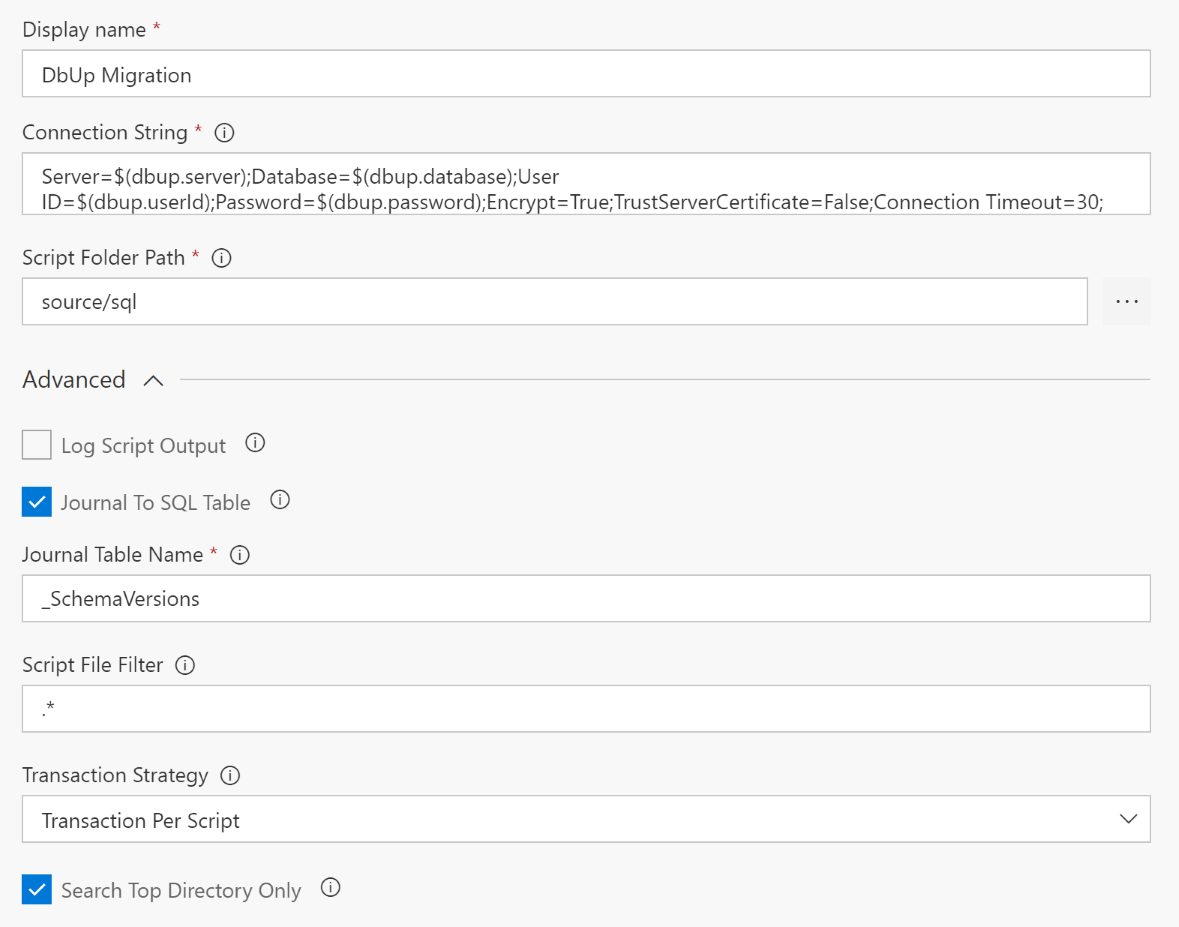
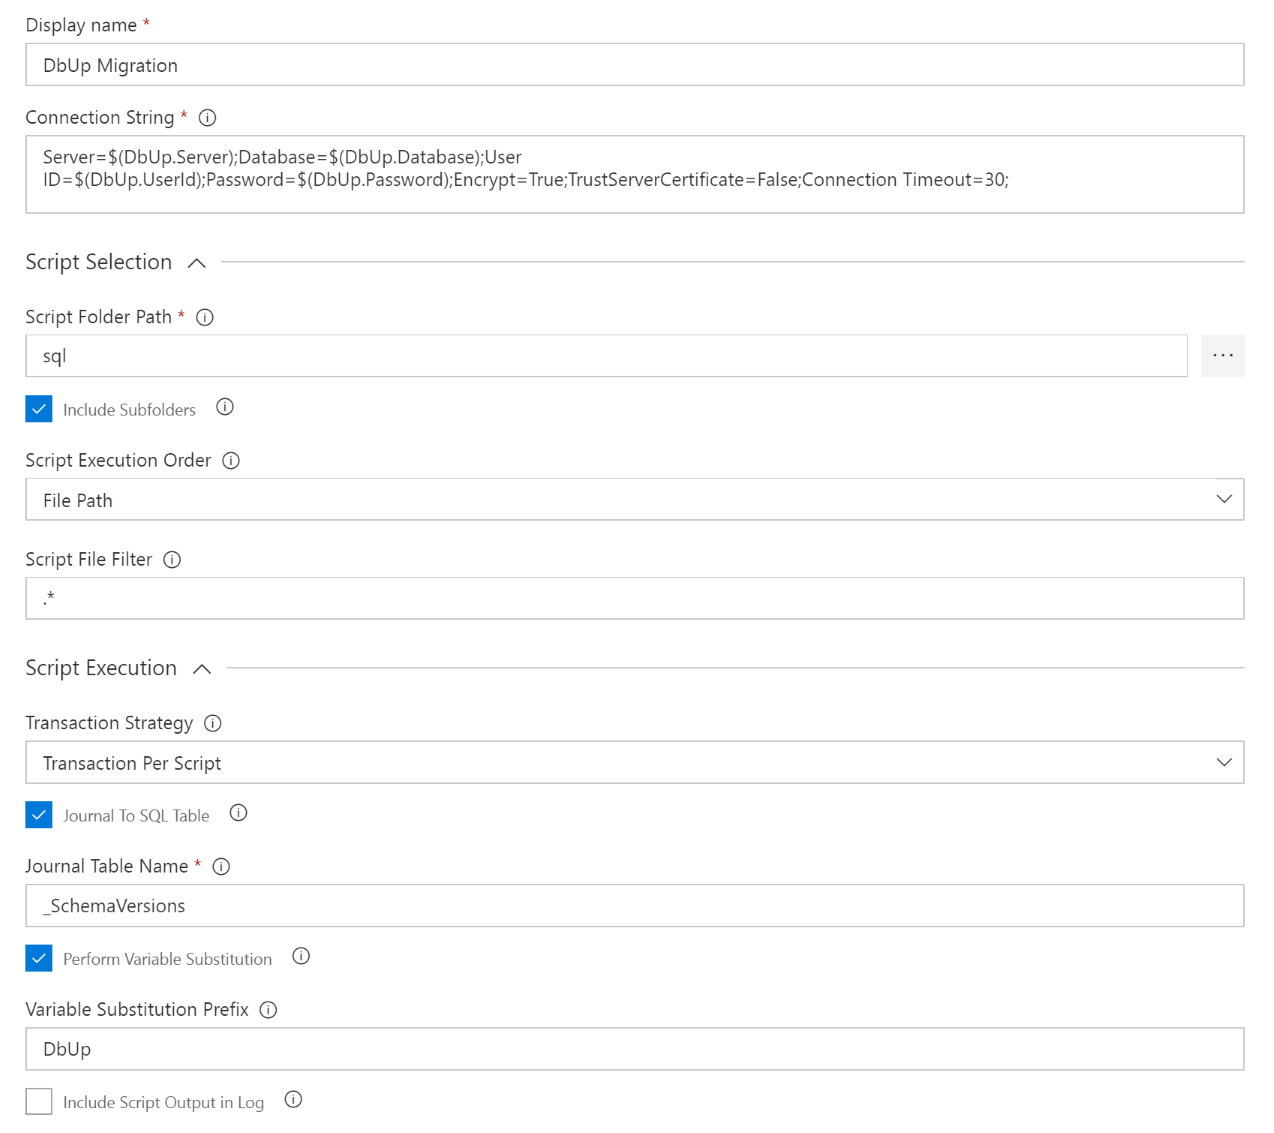
Variable substitution (#28)
* Variable substitution feature.
* Updated ReadMe, and GUI.
* Include Subfolders instead of Search Top Directory Only, and corrected spelling.
* Order by *Filename*, *File Path* or *Folder structure*.

diff --git a/DbUpMigration/README.md b/DbUpMigration/README.md
@@ -20,7 +20,7 @@ I am not the author of DbUp, but a mere user of that awesome library.
 
 You will find the *DbUp Migration*-build and release task under the *deploy* category.
 
-<img src="https://github.com/johanclasson/vso-agent-tasks/raw/master/DbUpMigration/example.png" alt="DbUp Migration User Interface" width="500" height="393">
+<img src="https://github.com/johanclasson/vso-agent-tasks/raw/master/DbUpMigration/example.png" alt="DbUp Migration User Interface" width="500" height="445">
 
 ### Parameters
 
@@ -28,13 +28,15 @@ You will find the *DbUp Migration*-build and release task under the *deploy* cat
 |------|-------------|
 | Connection String | The connection string used to connect to the database. |
 | Script Folder Path | The path where the migration scripts to run are. |
-| Log Script Output | If information and warning logs raised from the SQL scripts should be visible in the log output. |
-| Journal To SQL Table | If set, each migration script will only be run once. |
-| Journal Table Name | The name of the table where the journal of the already run scripts are stored. |
+| Include Subfolders | Controls if scripts in subfolders are executed or not. |
+| Script Execution Order | Select one of *Filename*, *File Path* and *Folder Structure*. |
 | Script File Filter | A regular expression used against the full path of the migration scripts to select which to run. |
 | Transaction Strategy | Select one of *No Transactions*, *Transaction Per Script* and *Single Transaction*. |
-| Search Top Directory Only | Controls if scripts in subdirectories are executed or not. |
-| Script Execution Order | Select one of *Filename* and *File Path*. |
+| Journal To SQL Table | If set, each migration script will only be run once. |
+| Journal Table Name | The name of the table where the journal of the already run scripts are stored. |
+| Perform Variable Substitution | If set, SQL variable substitution will be made with matching environment variables. |
+| Variable Substitution Prefix | Filters what environment variables that is used in variable substitution. |
+| Log Script Output | If information and warning logs raised from the SQL scripts should be visible in the log output. |
 
 #### An Example
 
@@ -58,6 +60,7 @@ Although DbUp supports many databases, this extension currently only works with 
 
 | When | Version | What |
 |------|---------|------|
+| 2017-08-15 | 1.0.0 | Added variable substitution feature, and fixed sorting issue. |
 | 2017-08-09 | 0.12.0 | Added scripts in subfolders-, and logging features. |
 | 2017-04-27 | 0.11.0 | Added configurable journal table name feature. |
 | 2017-04-13 | 0.10.7 | Fixed NuGet issue. |
